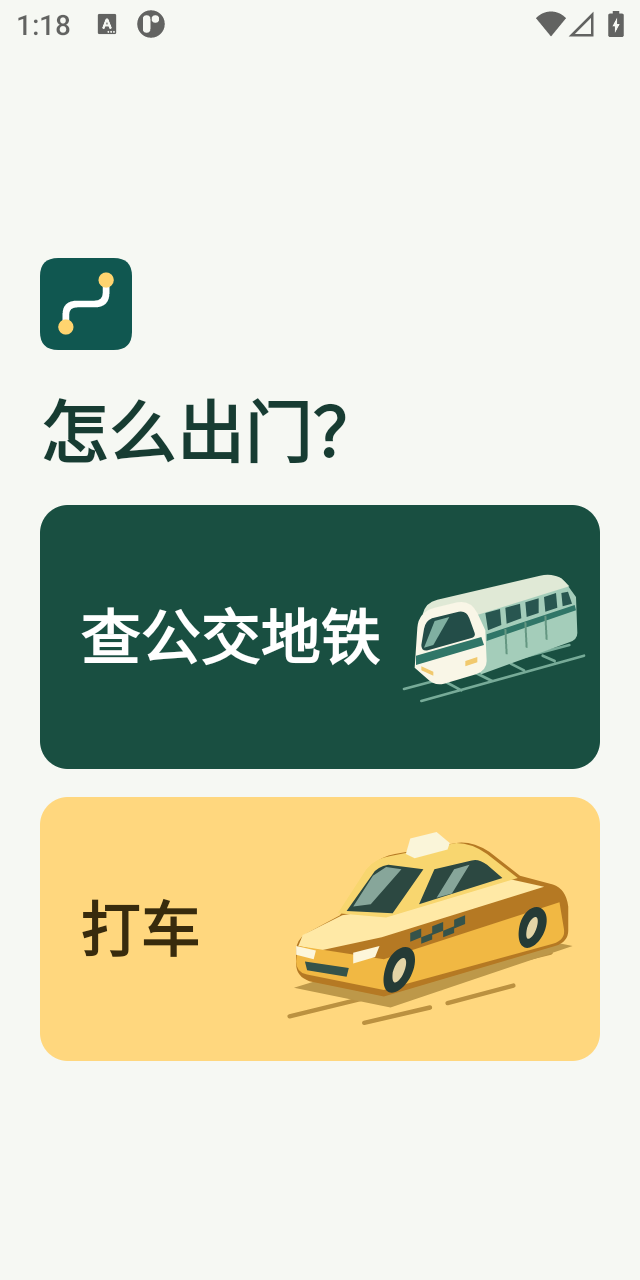
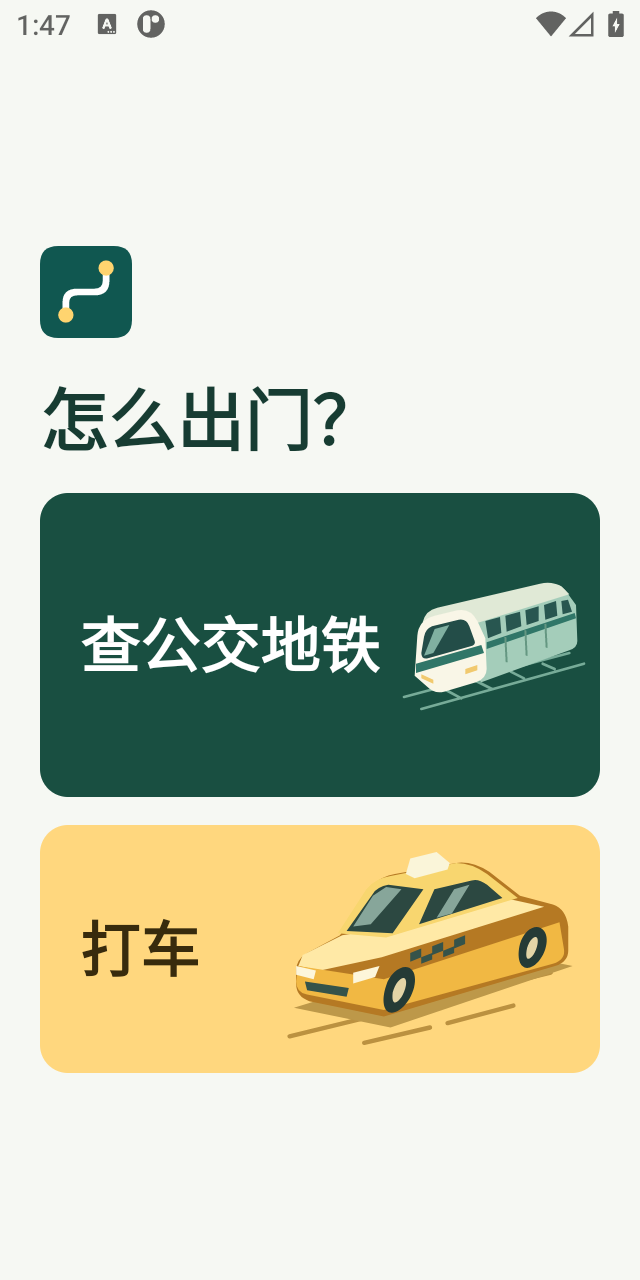
Polish sheet transitions and refresh verified Android screen previews

diff --git a/src/family/chumen/PlaceSheet.java b/src/family/chumen/PlaceSheet.java
@@ -120,6 +120,7 @@ final class PlaceSheet extends Dialog {
         sharedFace=null;
     }
     private void morph(boolean opening) {
+        if (opening && (closing || !isShowing())) return;
         if (animation != null) animation.cancel();
         int[] src = new int[2], dst = new int[2];
         boolean linked = anchor != null && anchor.isShown() && anchor.isAttachedToWindow()
@@ -172,7 +173,7 @@ final class PlaceSheet extends Dialog {
         sheet.setLayoutParams(p);
     }
     private void snap(boolean up) {
-        if (closing) return;
+        if (closing || openness < .999f) return;
         expanded = up;
         handle.setContentDescription(up ? "收起面板" : "展开面板");
         if (animation != null) animation.cancel();

diff --git a/src/family/chumen/DestinationField.java b/src/family/chumen/DestinationField.java
@@ -79,6 +79,7 @@ final class DestinationField extends LinearLayout {
         refresh();
     }
     void showError() { invalid = true; refresh(); }
+    void clearError() { if (invalid) { invalid = false; refresh(); } }
     private void refresh() {
         boolean hasText = input.length() > 0;
         boolean raised = input.hasFocus() || hasText;

diff --git a/src/family/chumen/MainActivity.java b/src/family/chumen/MainActivity.java
@@ -416,6 +416,8 @@ public final class MainActivity extends Activity {
     }
     private void clearResults() {
         cancel();
+        startField.clearError();
+        destinationField.clearError();
         results.removeAllViews();
         message("", false);
     }

diff --git a/README.md b/README.md
@@ -12,7 +12,7 @@
 
 ## 界面预览
 
-<img src="./docs/screenshots/home.png" alt="首页的列车和出租车入口" width="220"> <img src="./docs/screenshots/search.png" alt="定位及目的地输入框" width="220">
+<img src="./docs/screenshots/home.png" alt="首页的列车和出租车入口" width="200"> <img src="./docs/screenshots/search.png" alt="切换当前位置或输入起点" width="200"> <img src="./docs/screenshots/city.png" alt="常用城市底部面板" width="200">
 
 ## 查公交地铁
 
